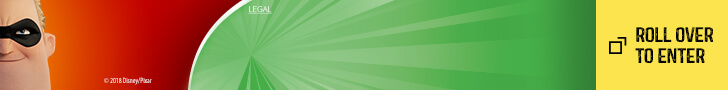
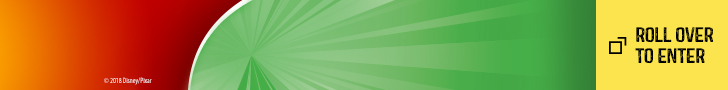
Update animation

Changed region(s): [[0.0, 0.0, 0.0907, 1.0], [0.3324, 0.0667, 0.3929, 0.1556]]

diff --git a/2018/2018-05/2018-05-12/source/320x50.css b/2018/2018-05/2018-05-12/source/320x50.css
@@ -707,17 +707,33 @@
   -moz-animation: fadeIn 0.75s ease-in-out 0.5s forwards;
   animation: fadeIn 0.75s ease-in-out 0.5s forwards;
 }
-.logo {
-  background: url('./images/320x50_logo.png') no-repeat center center;
-  background-size: 100% auto;
-  width: 63px;
-  height: 38px;
-  top: 3px;
-  left: 105px;
+.man {
+  background: url('./images/320x50_man.png') no-repeat center center;
+  background-size: auto 100%;
+  width: 58px;
+  height: 72px;
+  top: -11px;
+  left: -29px;
 
-  -webkit-animation: fadeIn 0.75s ease-in-out 1.25s forwards;
-  -moz-animation: fadeIn 0.75s ease-in-out 1.25s forwards;
-  animation: fadeIn 0.75s ease-in-out 1.25s forwards;
+  -webkit-transform-origin: 50% 80%;
+  -moz-transform-origin: 50% 80%;
+  transform-origin: 50% 80%;
+
+  -webkit-animation: zoomIn 0.75s ease-in-out 1.25s forwards;
+  -moz-animation: zoomIn 0.75s ease-in-out 1.25s forwards;
+  animation: zoomIn 0.75s ease-in-out 1.25s forwards;
+}
+.text2 {
+  background: url('./images/320x50_text2.png') no-repeat center center;
+  background-size: auto 100%;
+  width: 130px;
+  height: 23px;
+  top: 14px;
+  left: 182px;
+
+  -webkit-animation: zoomIn 0.75s ease-in-out 1.25s forwards;
+  -moz-animation: zoomIn 0.75s ease-in-out 1.25s forwards;
+  animation: zoomIn 0.75s ease-in-out 1.25s forwards;
 }
 .text1 {
   background: url('./images/320x50_text1.png') no-repeat center center;
@@ -731,18 +747,19 @@
   -moz-animation: fadeInDown 0.75s ease-in-out 2s forwards;
   animation: fadeInDown 0.75s ease-in-out 2s forwards;
 }
-.text2 {
-  background: url('./images/320x50_text2.png') no-repeat center center;
-  background-size: auto 100%;
-  width: 130px;
-  height: 23px;
-  top: 14px;
-  left: 182px;
+.logo {
+  background: url('./images/320x50_logo.png') no-repeat center center;
+  background-size: 100% auto;
+  width: 63px;
+  height: 38px;
+  top: 3px;
+  left: 105px;
 
   -webkit-animation: fadeInDown 0.75s ease-in-out 2.5s forwards;
   -moz-animation: fadeInDown 0.75s ease-in-out 2.5s forwards;
   animation: fadeInDown 0.75s ease-in-out 2.5s forwards;
 }
+
 .text-container {
   -webkit-animation: fadeOut 0.75s ease-in-out 4.5s forwards;
   -moz-animation: fadeOut 0.75s ease-in-out 4.5s forwards;

diff --git a/2018/2018-05/2018-05-12/source/728x90.css b/2018/2018-05/2018-05-12/source/728x90.css
@@ -707,17 +707,33 @@
   -moz-animation: fadeIn 0.75s ease-in-out 0.5s forwards;
   animation: fadeIn 0.75s ease-in-out 0.5s forwards;
 }
-.logo {
-  background: url('./images/728x90_logo.png') no-repeat center center;
-  background-size: 100% auto;
-  width: 110px;
-  height: 66px;
-  top: 14px;
-  left: 218px;
+.man {
+  background: url('./images/320x50_man.png') no-repeat center center;
+  background-size: auto 100%;
+  width: 115px;
+  height: 144px;
+  top: -31px;
+  left: -56px;
 
-  -webkit-animation: fadeIn 0.75s ease-in-out 1.25s forwards;
-  -moz-animation: fadeIn 0.75s ease-in-out 1.25s forwards;
-  animation: fadeIn 0.75s ease-in-out 1.25s forwards;
+  -webkit-transform-origin: 50% 80%;
+  -moz-transform-origin: 50% 80%;
+  transform-origin: 50% 80%;
+
+  -webkit-animation: zoomIn 0.75s ease-in-out 1.25s forwards;
+  -moz-animation: zoomIn 0.75s ease-in-out 1.25s forwards;
+  animation: zoomIn 0.75s ease-in-out 1.25s forwards;
+}
+.text2 {
+  background: url('./images/728x90_text2.png') no-repeat center center;
+  background-size: auto 100%;
+  width: 237px;
+  height: 62px;
+  top: 22px;
+  left: 338px;
+
+  -webkit-animation: zoomIn 0.75s ease-in-out 1.25s forwards;
+  -moz-animation: zoomIn 0.75s ease-in-out 1.25s forwards;
+  animation: zoomIn 0.75s ease-in-out 1.25s forwards;
 }
 .text1 {
   background: url('./images/728x90_text1.png') no-repeat center center;
@@ -731,18 +747,19 @@
   -moz-animation: fadeInDown 0.75s ease-in-out 2s forwards;
   animation: fadeInDown 0.75s ease-in-out 2s forwards;
 }
-.text2 {
-  background: url('./images/728x90_text2.png') no-repeat center center;
-  background-size: auto 100%;
-  width: 237px;
-  height: 62px;
-  top: 22px;
-  left: 338px;
+.logo {
+  background: url('./images/728x90_logo.png') no-repeat center center;
+  background-size: 100% auto;
+  width: 110px;
+  height: 66px;
+  top: 14px;
+  left: 218px;
 
   -webkit-animation: fadeInDown 0.75s ease-in-out 2.5s forwards;
   -moz-animation: fadeInDown 0.75s ease-in-out 2.5s forwards;
   animation: fadeInDown 0.75s ease-in-out 2.5s forwards;
 }
+
 .legal {
   background: url('./images/728x90_legal.png') no-repeat center center;
   background-size: auto 100%;

diff --git a/2018/2018-05/2018-05-12/source/728x90.html b/2018/2018-05/2018-05-12/source/728x90.html
@@ -14,6 +14,7 @@
 				<div class="content container">
 					<div class="content-wrapper container">
 						<div class="bg container">&nbsp;</div>
+						<div class="man absolute">&nbsp;</div>
 						<div class="text1 absolute">&nbsp;</div>
 						<div class="logo absolute">&nbsp;</div>
 						<div class="text2 absolute">&nbsp;</div>

diff --git a/2018/2018-05/2018-05-12/source/320x50.html b/2018/2018-05/2018-05-12/source/320x50.html
@@ -14,6 +14,7 @@
 				<div class="content container">
 					<div class="content-wrapper container">
 						<div class="bg container">&nbsp;</div>
+						<div class="man absolute">&nbsp;</div>
 						<div class="text1 absolute">&nbsp;</div>
 						<div class="logo absolute">&nbsp;</div>
 						<div class="container content-hide-ie">
